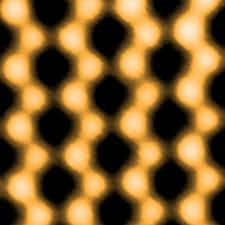
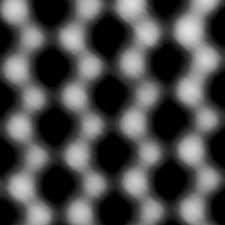
Auto stash before rebase of "feat-flask-dynamic_scan"

diff --git a/docker_domain/flask/app/templates/devicetoolkit/colorization.html b/docker_domain/flask/app/templates/devicetoolkit/colorization.html
@@ -1,1 +1,76 @@
-<div style="text-align: center">placeholder</div>
+{%if colors|length == 0%} {% set colors=["#000000", "#888A85", "#ffffff"]%}
+{%endif%}
+<div style="text-align: center">
+  <form method="post" action="{{url_for('color_device')}}">
+    <div class="mx-2" style="margin-bottom: 5%">
+      <button
+        style="margin-top: 5%"
+        type="submit"
+        class="btn btn-primary"
+        name="L"
+      >
+        Reset to L
+      </button>
+    </div>
+
+    <div
+      class="rowdisp my-2"
+      style="
+        justify-content: space-between !important;
+        align-items: center !important;
+      "
+    >
+      <p class="menutext">Blacks:</p>
+      <input
+        type="color"
+        class="form-control form-control-color dark border-0 text-white"
+        value="{{colors[0]}}"
+        id="colorBlack"
+        name="colorBlack"
+      />
+    </div>
+    <div
+      class="rowdisp my-2"
+      style="
+        justify-content: space-between !important;
+        align-items: center !important;
+      "
+    >
+      <p class="menutext">Midpoint:</p>
+      <input
+        type="color"
+        class="form-control form-control-color dark border-0 text-white"
+        value="{{colors[1]}}"
+        id="colorMid"
+        name="colorMid"
+      />
+    </div>
+    <div
+      class="rowdisp my-2"
+      style="
+        justify-content: space-between !important;
+        align-items: center !important;
+      "
+    >
+      <p class="menutext">Whites:</p>
+      <input
+        type="color"
+        class="form-control form-control-color dark border-0 text-white"
+        value="{{colors[2]}}"
+        id="colorWhite"
+        name="colorWhite"
+      />
+    </div>
+
+    <div class="mx-2" style="margin-bottom: 5%">
+      <button
+        style="margin-top: 5%"
+        type="submit"
+        class="btn btn-primary"
+        name="apply"
+      >
+        Apply
+      </button>
+    </div>
+  </form>
+</div>

diff --git a/docker_domain/flask/app/templates/imagetoolkit/fileformat.html b/docker_domain/flask/app/templates/imagetoolkit/fileformat.html
@@ -8,8 +8,8 @@
       aria-label="Default select example"
     >
       <option selected disabled>Select format...</option>
-      <option value="0">JPEG</option>
-      <option value="1">PNG</option>
+      <option value="0">PNG</option>
+      <option value="1">JPG</option>
       <option value="2">TIFF</option>
     </select>
 

diff --git a/docker_domain/flask/app/templates/deviceMenu.html b/docker_domain/flask/app/templates/deviceMenu.html
@@ -1,4 +1,4 @@
-{% extends "menuTemplate.html" %} {% block mainpage %}
+{% extends "mainMenu.html" %} {% block content %}
 <div class="coldisp">
   <h2 class="title">Device</h2>
   <p style="margin-left: 4%">

diff --git a/docker_domain/flask/app/index.py b/docker_domain/flask/app/index.py
@@ -165,14 +165,14 @@ def download_file(file):
             file, data, app.config['OUTPUT_FOLDER'], format=fileformat, colors=colors)
         path = url_for('static', filename='img/results/'+response[0])[1:]
         if fileformat == 1:
-            # For PNG format
-            return send_file(path, as_attachment=True, download_name=time.strftime('%Y%m%d_%H%M%S') + "_image.png", mimetype='image/png')
+            # for JPEG format
+            return send_file(path, as_attachment=True, download_name=time.strftime('%Y%m%d_%H%M%S') + "_image.jpg", mimetype='image/jpeg')
         elif fileformat == 2:
             # For TIFF format
             return send_file(path, as_attachment=True, download_name=time.strftime('%Y%m%d_%H%M%S') + "_image.tiff", mimetype='image/tiff')
         else:
-            # for JPEG format
-            return send_file(path, as_attachment=True, download_name=time.strftime('%Y%m%d_%H%M%S') + "_image.jpg", mimetype='image/jpeg')
+            # For PNG format
+            return send_file(path, as_attachment=True, download_name=time.strftime('%Y%m%d_%H%M%S') + "_image.png", mimetype='image/png')
     flash("Downloading was unsuccessful", "error")
     return redirect(url_for('watch_file', file=file))
 
@@ -223,7 +223,7 @@ def connect_link():
     return redirect(url_for('watch_device'))
 
 
-@ app.route("/device/launch_scan", methods=['POST'])
+@ app.route("/device/image/scan/launch", methods=['POST'])
 def launch_scan():
     cmd.print_verbose_WHITE(config.logFilePath, f"[LOG] trying to launch scan")
     if not "dev" in session:
@@ -254,22 +254,47 @@ def launch_scan():
 
     except Exception as x:
         flash("did not get to start the scan")
-        cmd.eprint_RED(config.logFilePath, f"[ERR] while starting the scan");
-        result={"isScanLaunched":False, "error":"error while starting the scan"} 
+        cmd.eprint_RED(config.logFilePath, f"[ERR] while starting the scan")
+        result = {"isScanLaunched": False,
+                  "error": "error while starting the scan"}
         return jsonify(result)
         raise
 
 
-@ app.route("/device/updateImageScan", methods=['POST'])
-def updateImageDevice():
+@ app.route("/device/image/color", methods=['GET', 'POST'])
+def color_device():
+    # To color an image
+    if request.method == "POST":
+        if 'apply' in request.form:
+            if request.form.get("colorBlack") and request.form.get("colorMid") and request.form.get("colorWhite"):
+                colorRange = [request.form.get("colorBlack"), request.form.get(
+                    "colorMid"), request.form.get("colorWhite")]
+                session["colors"] = colorRange
+        else:
+            if not session.get("colors") is None:
+                session.pop("colors")
+    return redirect(url_for('update_image_device'))
+
+
+@ app.route("/device/image/scan/update", methods=['POST'])
+def update_image_device():
     cmd.print_verbose_WHITE(
         config.logFilePath, f"[LOG] trying to update image")
     if not config.scanner == None:
         # checks on the current status of the scan
         if config.scanner.hasUpdated():
+            colors = []
             matrix = config.scanner.getMatrix()
 
-            result = {"isReloadable": True, "Path": ""}
+            # If the user preselected colors
+            if not session.get("colors") is None:
+                colors = session.get("colors")
+            response = save_image(
+                "scan_update_" + time.strftime('%Y%m%d_%H%M%S'), matrix, app.config['OUTPUT_FOLDER'], colors=colors)
+            path = url_for(
+                'static', filename='img/results/'+response[0])[1:]
+            # add image
+            result = {"isReloadable": True, "Path": path}
         else:
             result = {"isReloadable": False, "Path": ""}
 
@@ -281,16 +306,14 @@ def updateImageDevice():
 @ app.route("/device/watch", methods=['GET', 'POST'])
 def watch_device():
     if request.method == 'POST':
-
         # added by ulysse, needs to be modified
-        if (not session.get("dev") is None) or (not request.args.get('device') is None) :
+        if (not session.get("dev") is None) or (not request.args.get('device') is None):
             if not request.args.get('device') is None:
-                path=request.args.get('device')
-            if not session.get("dev") is None :
-                path=session.get("dev")
-        else : 
-            path=None;
-
+                path = request.args.get('device')
+            if not session.get("dev") is None:
+                path = session.get("dev")
+        else:
+            path = None
 
         # check if the post request has the file part
         if 'import' not in request.files:
@@ -313,7 +336,7 @@ def watch_device():
     if not session.get("import") is None:
         imported = json.loads(session.get("import"))
         return render_template("/functionnalities/watchDevice.html", path=path, titles=deviceTitles, toolkit="devicetoolkit", types=deviceTypes, imported=imported)
-    
+
     return render_template("/functionnalities/watchDevice.html", path=path, titles=deviceTitles, toolkit="devicetoolkit", types=deviceTypes, imported=imported)
 
     # added by ulysse, needs to be modified
@@ -325,7 +348,6 @@ def watch_device():
         return render_template("/functionnalities/watchDevice.html", path=path, titles=deviceTitles, toolkit="devicetoolkit", types=deviceTypes)
 
     return render_template("/functionnalities/watchDevice.html", titles=deviceTitles, toolkit="devicetoolkit", types=deviceTypes)
-
 
 
 @ app.route("/device/config/save", methods=['GET', 'POST'])

diff --git a/docker_domain/flask/app/functions/readings/save_image_linear.py b/docker_domain/flask/app/functions/readings/save_image_linear.py
@@ -19,11 +19,11 @@ def save_image(filename, data, output_folder, format=0, colors=[]):
         os.makedirs(output_folder)
     # selecting the format
     if format == 1:
-        # for PNG format
-        name = filename[:-4] + '.png'
+        # for JPEG format
+        name = filename[:-4] + '.jpg'
         # set the path and save the image in it
         path = str(output_folder + name)
-        img.save(path, 'PNG')
+        img.save(path, 'JPEG')
     elif format == 2:
         # for TIFF format
         name = filename[:-4] + '.tiff'
@@ -31,11 +31,11 @@ def save_image(filename, data, output_folder, format=0, colors=[]):
         path = str(output_folder + name)
         img.save(path, 'TIFF')
     else:
-        # for JPEG format
-        name = filename[:-4] + '.jpg'
+        # for PNG format
+        name = filename[:-4] + '.png'
         # set the path and save the image in it
         path = str(output_folder + name)
-        img.save(path, 'JPEG')
+        img.save(path, 'PNG')
 
     img = Image.open(path)
     return name, img.size, img.mode, img.format, img.palette
